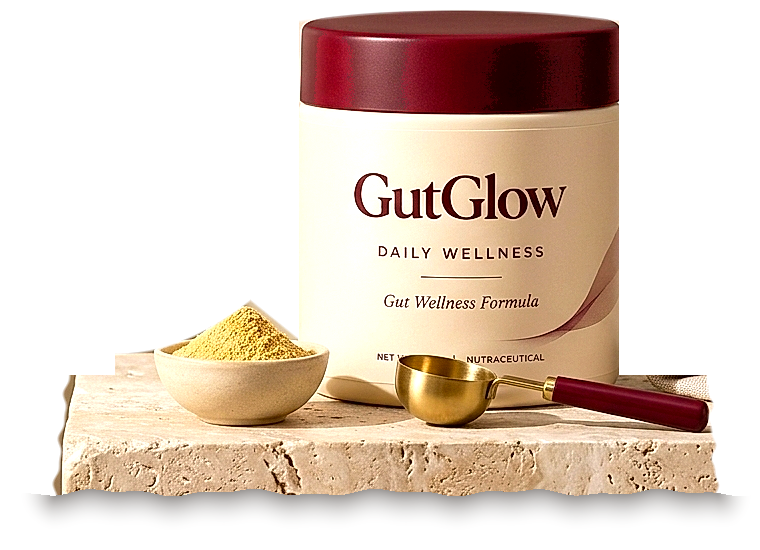
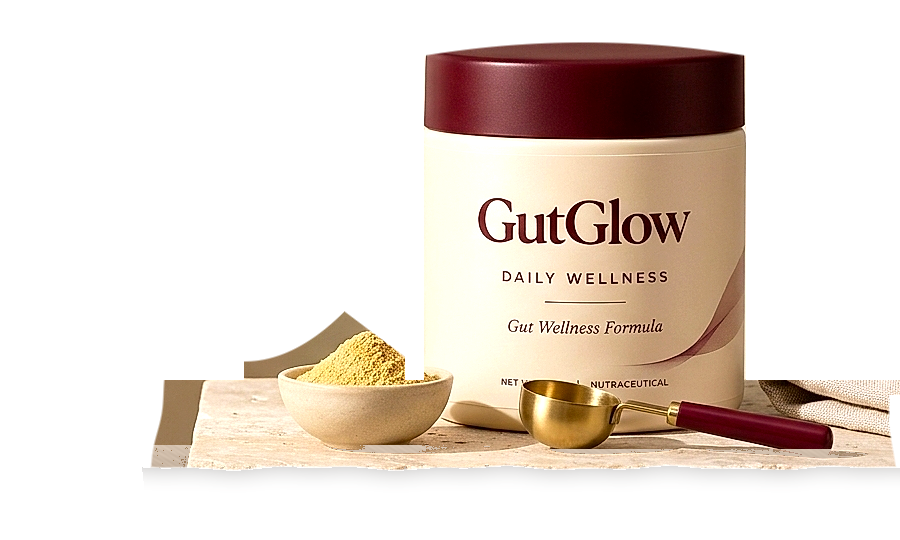
refactor(hero): mobile product-first layout and refined limestone pedestal

diff --git a/scripts/build_clean_hero_assets.js b/scripts/build_clean_hero_assets.js
@@ -1,0 +1,271 @@
+const sharp = require("sharp");
+const path = require("path");
+
+async function buildAssets() {
+  const src = "/Users/user/.gemini/antigravity/brain/7e9bb650-22f7-4662-aae5-1956d6d266ed/gutglow_hero_desktop_clean_1794232941148.jpg";
+
+  // 1. Crop source
+  const cropLeft = 490;
+  const cropTop = 135;
+  const cropW = 886; // to 1376
+  const cropH = 500;
+
+  const enhanced = await sharp(src)
+    .modulate({ brightness: 1.05, saturation: 1.28 })
+    .linear(1.08, -5)
+    .sharpen({ sigma: 1.0, m1: 1.0, m2: 2.0 })
+    .extract({ left: cropLeft, top: cropTop, width: cropW, height: cropH })
+    .raw()
+    .toBuffer({ resolveWithObject: true });
+
+  const { data, info } = enhanced;
+  const inW = info.width;
+  const inH = info.height;
+
+  // Let us find exact Cap center and radius
+  let capMinX = 999, capMaxX = 0, capMinY = 999;
+  for (let y = 0; y < 150; y++) {
+    for (let x = 350; x < 750; x++) {
+      const idx = (y * inW + x) * 3;
+      if (data[idx] > 50 && data[idx] < 125 && data[idx+1] < 42 && data[idx+2] < 42) {
+        if (x < capMinX) capMinX = x;
+        if (x > capMaxX) capMaxX = x;
+        if (y < capMinY) capMinY = y;
+      }
+    }
+  }
+  const capCenter = (capMinX + capMaxX) / 2;
+  const capRadius = (capMaxX - capMinX) / 2;
+  console.log("Cap bounds:", { capMinX, capMaxX, capCenter, capRadius, capMinY });
+
+  // Output Desktop Canvas (900 x 540)
+  const outW = 900;
+  const outH = 540;
+  const padLeft = 14; // Shift input by 14px to give 900 - 886 - 14 = 0 margin on right, padRight is ample
+
+  // Geometric boundary functions in output canvas coordinates:
+  function getCapTop(x) {
+    const rx = (x - (capCenter + padLeft)) / capRadius;
+    if (Math.abs(rx) > 1.03) return 999;
+    return capMinY + 5 + rx * rx * 13;
+  }
+
+  function getBowlTop(x) {
+    const bowlStart = 230 + padLeft;
+    const bowlPeak = 330 + padLeft;
+    const bowlEnd = 390 + padLeft;
+    if (x < bowlStart || x > bowlEnd) return 999;
+    if (x <= bowlPeak) {
+      const t = (x - bowlStart) / (bowlPeak - bowlStart);
+      return 360 - t * t * 50;
+    }
+    const t = (x - bowlPeak) / (bowlEnd - bowlPeak);
+    return 310 + t * 45;
+  }
+
+  // Limestone slab boundaries
+  const slabLeftBase = 150 + padLeft; // ~164
+  const slabRightBase = 875 + padLeft; // ~889
+  const slabTopLeftY = 380;
+  const slabTopRightY = 395;
+  const slabBottomY = 468;
+
+  function getSlabLeft(y) {
+    if (y < slabTopLeftY) return 999;
+    const t = Math.min(1, Math.max(0, (y - slabTopLeftY) / (slabBottomY - slabTopLeftY)));
+    return slabLeftBase - t * 14 + Math.sin(y * 0.08) * 1.5;
+  }
+
+  function getSlabRight(y) {
+    if (y < slabTopRightY) return 999;
+    const t = Math.min(1, Math.max(0, (y - slabTopRightY) / (slabBottomY - slabTopRightY)));
+    return slabRightBase + t * 6 + Math.sin(y * 0.07) * 1.5;
+  }
+
+  function getSlabBottom(x) {
+    return slabBottomY + Math.sin(x * 0.035) * 1.4 + Math.cos(x * 0.08) * 0.9;
+  }
+
+  const desktopRGBA = Buffer.alloc(outW * outH * 4);
+
+  for (let y = 0; y < outH; y++) {
+    for (let x = 0; x < outW; x++) {
+      const dstIdx = (y * outW + x) * 4;
+
+      // Map to input coordinates
+      const inX = x - padLeft;
+      const inY = y;
+
+      const capTop = getCapTop(x);
+      const bowlTop = getBowlTop(x);
+      const slabL = getSlabLeft(y);
+      const slabR = getSlabRight(y);
+      const slabBot = getSlabBottom(x);
+
+      // Is it inside the subject?
+      let inside = false;
+      let alpha = 0;
+
+      // 1. Cap
+      if (Math.abs(x - (capCenter + padLeft)) <= capRadius + 1 && y >= capTop && y <= capMinY + 140) {
+        inside = true;
+        alpha = 255;
+        const dTop = y - capTop;
+        if (dTop < 2.0) {
+          alpha = Math.round((dTop / 2.0) * 255);
+        }
+      }
+
+      // 2. Jar body & label
+      if (Math.abs(x - (capCenter + padLeft)) <= capRadius + 1 && y > capMinY + 140 && y <= slabBot) {
+        inside = true;
+        alpha = 255;
+      }
+
+      // 3. Bowl
+      if (x >= 230 + padLeft && x <= 390 + padLeft && y >= bowlTop && y <= slabBot) {
+        inside = true;
+        alpha = 255;
+        const dTop = y - bowlTop;
+        if (dTop < 2.0) {
+          alpha = Math.min(alpha, Math.round((dTop / 2.0) * 255));
+        }
+      }
+
+      // 4. Limestone slab body (y >= slabTop to slabBot, within slabL..slabR)
+      if (y >= Math.min(slabTopLeftY, slabTopRightY) && y <= slabBot) {
+        if (x >= slabL && x <= slabR) {
+          inside = true;
+          alpha = 255;
+
+          // Smooth chiseled edge anti-aliasing
+          const dLeft = x - slabL;
+          const dRight = slabR - x;
+          const dBot = slabBot - y;
+          const minEdge = Math.min(dLeft, dRight, dBot);
+          if (minEdge < 2.2) {
+            alpha = Math.min(alpha, Math.round((Math.max(0, minEdge) / 2.2) * 255));
+          }
+        }
+      }
+
+      // 5. Ground contact shadow (immediately below slabBot)
+      if (!inside && y > slabBot && y <= slabBot + 25 && x >= slabL - 8 && x <= slabR + 8) {
+        const dBot = y - slabBot;
+        const groundT = Math.max(0, 1 - dBot / 25);
+        // Soft contact shadow: max opacity ~42 out of 255
+        const shadowAlpha = Math.round(Math.pow(groundT, 2.0) * 44);
+        if (shadowAlpha > 0) {
+          desktopRGBA[dstIdx] = 65;
+          desktopRGBA[dstIdx + 1] = 58;
+          desktopRGBA[dstIdx + 2] = 54;
+          desktopRGBA[dstIdx + 3] = shadowAlpha;
+          continue;
+        }
+      }
+
+      if (inside && inX >= 0 && inX < inW && inY >= 0 && inY < inH) {
+        const srcIdx = (inY * inW + inX) * 3;
+        let r = data[srcIdx];
+        let g = data[srcIdx + 1];
+        let b = data[srcIdx + 2];
+
+        // Refine stone front face: smooth out any rough dark holes/cavities in the limestone face
+        if (y >= 445 && y <= slabBot) {
+          const lum = 0.299 * r + 0.587 * g + 0.114 * b;
+          // If it is not the maroon spoon handle or brass scoop (which have x between 500 and 870, y < 445)
+          // Any dark cavity with lum < 130 is an unsightly hole
+          if (lum < 130 && (y > 448 || x < 500)) {
+            // Replace with beautiful warm ivory limestone tone with natural slight variation
+            const grain = ((Math.sin(x * 12.3 + y * 7.1) + Math.cos(x * 5.4 - y * 11.2)) * 0.5) * 6;
+            const t = (y - 445) / (slabBot - 445);
+            // Gentle directional shading from top of face to bottom
+            r = Math.round(214 - t * 16 + grain);
+            g = Math.round(195 - t * 16 + grain);
+            b = Math.round(176 - t * 16 + grain);
+          }
+        }
+
+        desktopRGBA[dstIdx] = r;
+        desktopRGBA[dstIdx + 1] = g;
+        desktopRGBA[dstIdx + 2] = b;
+        desktopRGBA[dstIdx + 3] = alpha;
+      } else if (!inside) {
+        // Pure transparent white background
+        desktopRGBA[dstIdx] = 255;
+        desktopRGBA[dstIdx + 1] = 255;
+        desktopRGBA[dstIdx + 2] = 255;
+        desktopRGBA[dstIdx + 3] = 0;
+      }
+    }
+  }
+
+  await sharp(desktopRGBA, { raw: { width: outW, height: outH, channels: 4 } })
+    .png({ compressionLevel: 8 })
+    .toFile("public/images/gutglow-hero-desktop.png");
+  console.log("Desktop hero generated: public/images/gutglow-hero-desktop.png (", outW, "x", outH, ")");
+
+  // Generate preview on white
+  const bg = await sharp({
+    create: { width: outW, height: outH, channels: 4, background: { r: 255, g: 255, b: 255, alpha: 1 } }
+  }).png().toBuffer();
+
+  await sharp(bg)
+    .composite([{ input: "public/images/gutglow-hero-desktop.png" }])
+    .jpeg({ quality: 95 })
+    .toFile("/Users/user/.gemini/antigravity/brain/7e9bb650-22f7-4662-aae5-1956d6d266ed/preview_desktop_refined.jpg");
+  console.log("Desktop preview on white saved to brain/preview_desktop_refined.jpg");
+
+  // ==========================================
+  // 2. Build Mobile Hero Asset (Centered)
+  // ==========================================
+  // Mobile composition is centered horizontally around the jar
+  const mobW = 720;
+  const mobH = 500;
+  const mobCenterX = 360;
+
+  // We crop a centered slice from the desktop image
+  // Cap center in desktop is (capCenter + padLeft) ≈ 570
+  // To center it at 360, we shift by (570 - 360) = 210
+  const cropMobileLeft = Math.round(capCenter + padLeft - mobCenterX);
+  console.log("Mobile crop left:", cropMobileLeft);
+
+  const mobRGBA = Buffer.alloc(mobW * mobH * 4);
+  for (let y = 0; y < mobH; y++) {
+    for (let x = 0; x < mobW; x++) {
+      const srcX = x + cropMobileLeft;
+      const srcY = y + 10; // slight vertical adjustment
+      const dstIdx = (y * mobW + x) * 4;
+
+      if (srcX >= 0 && srcX < outW && srcY >= 0 && srcY < outH) {
+        const srcIdx = (srcY * outW + srcX) * 4;
+        mobRGBA[dstIdx] = desktopRGBA[srcIdx];
+        mobRGBA[dstIdx + 1] = desktopRGBA[srcIdx + 1];
+        mobRGBA[dstIdx + 2] = desktopRGBA[srcIdx + 2];
+        mobRGBA[dstIdx + 3] = desktopRGBA[srcIdx + 3];
+      } else {
+        mobRGBA[dstIdx] = 255;
+        mobRGBA[dstIdx + 1] = 255;
+        mobRGBA[dstIdx + 2] = 255;
+        mobRGBA[dstIdx + 3] = 0;
+      }
+    }
+  }
+
+  await sharp(mobRGBA, { raw: { width: mobW, height: mobH, channels: 4 } })
+    .png({ compressionLevel: 8 })
+    .toFile("public/images/gutglow-hero-mobile.png");
+  console.log("Mobile hero generated: public/images/gutglow-hero-mobile.png (", mobW, "x", mobH, ")");
+
+  const mobBg = await sharp({
+    create: { width: mobW, height: mobH, channels: 4, background: { r: 255, g: 255, b: 255, alpha: 1 } }
+  }).png().toBuffer();
+
+  await sharp(mobBg)
+    .composite([{ input: "public/images/gutglow-hero-mobile.png" }])
+    .jpeg({ quality: 95 })
+    .toFile("/Users/user/.gemini/antigravity/brain/7e9bb650-22f7-4662-aae5-1956d6d266ed/preview_mobile_refined.jpg");
+  console.log("Mobile preview on white saved to brain/preview_mobile_refined.jpg");
+}
+
+buildAssets().catch(console.error);

diff --git a/components/home/HeroSection.tsx b/components/home/HeroSection.tsx
@@ -88,13 +88,13 @@ export function HeroSection() {
               transition={fadeIn.transition}
               className="col-span-7 lg:col-span-7 relative flex items-end justify-end self-end h-full"
             >
-              <div className="relative w-full max-w-[760px] aspect-[760/550] self-end">
+              <div className="relative w-full max-w-[780px] aspect-[900/540] self-end">
                 <Image
                   src="/images/gutglow-hero-desktop.png"
                   alt="GutGlow Daily Wellness Formula jar on natural limestone pedestal"
                   fill
                   priority
-                  sizes="(max-width: 1024px) 50vw, 680px"
+                  sizes="(max-width: 1024px) 50vw, 780px"
                   className="object-contain object-bottom object-right"
                 />
               </div>
@@ -104,18 +104,30 @@ export function HeroSection() {
       </div>
 
       {/* =========================================================================
-          MOBILE HERO (< 768px): Text FIRST, Grounded Product Arrangement BELOW
+          MOBILE HERO (< 768px): Product FIRST (Top), Followed by Headline & CTAs
           ========================================================================= */}
-      <div className="block md:hidden px-5 pt-6 pb-8">
+      <div className="block md:hidden px-5 sm:px-6 pt-2 pb-8">
         <motion.div
           initial={fadeIn.initial}
           animate={fadeIn.animate}
           transition={fadeIn.transition}
-          className="flex flex-col space-y-6"
+          className="flex flex-col space-y-5"
         >
-          {/* 1. EDITORIAL TYPOGRAPHY & CTA (ON TOP) */}
+          {/* 1. PRODUCT COMPOSITION (FIRST VISUAL ELEMENT ON MOBILE ~40-45%) */}
+          <div className="relative w-full max-w-[460px] mx-auto aspect-[720/500] select-none">
+            <Image
+              src="/images/gutglow-hero-mobile.png"
+              alt="GutGlow Daily Wellness Formula jar on natural limestone pedestal"
+              fill
+              priority
+              sizes="(max-width: 767px) 100vw, 460px"
+              className="object-contain object-bottom"
+            />
+          </div>
+
+          {/* 2. EDITORIAL TYPOGRAPHY & CTA (BELOW PRODUCT) */}
           <div className="space-y-4">
-            {/* Eyebrow */}
+            {/* Small Brand Eyebrow */}
             <p className="text-[11px] font-bold tracking-[0.2em] text-[#54232F] uppercase">
               GUTGLOW · DAILY WELLNESS
             </p>
@@ -126,7 +138,7 @@ export function HeroSection() {
               STARTS WITHIN.
             </h1>
 
-            {/* Supporting Description */}
+            {/* Short Supporting Description */}
             <p className="text-sm text-[#555555] leading-relaxed font-normal">
               A thoughtful approach to everyday gut wellness, designed around
               feeling better from within.
@@ -150,18 +162,6 @@ export function HeroSection() {
                 <ArrowRight className="w-3.5 h-3.5" />
               </Link>
             </div>
-          </div>
-
-          {/* 2. PHYSICAL PRODUCT ON LIMESTONE PEDESTAL (SEAMLESS ON WHITE) */}
-          <div className="relative w-full max-w-[480px] mx-auto aspect-[720/520] select-none pt-2">
-            <Image
-              src="/images/gutglow-hero-mobile.png"
-              alt="GutGlow Daily Wellness Formula on natural limestone pedestal"
-              fill
-              priority
-              sizes="(max-width: 767px) 100vw, 440px"
-              className="object-contain object-bottom"
-            />
           </div>
 
           {/* 3. Minimal Trust Points */}
